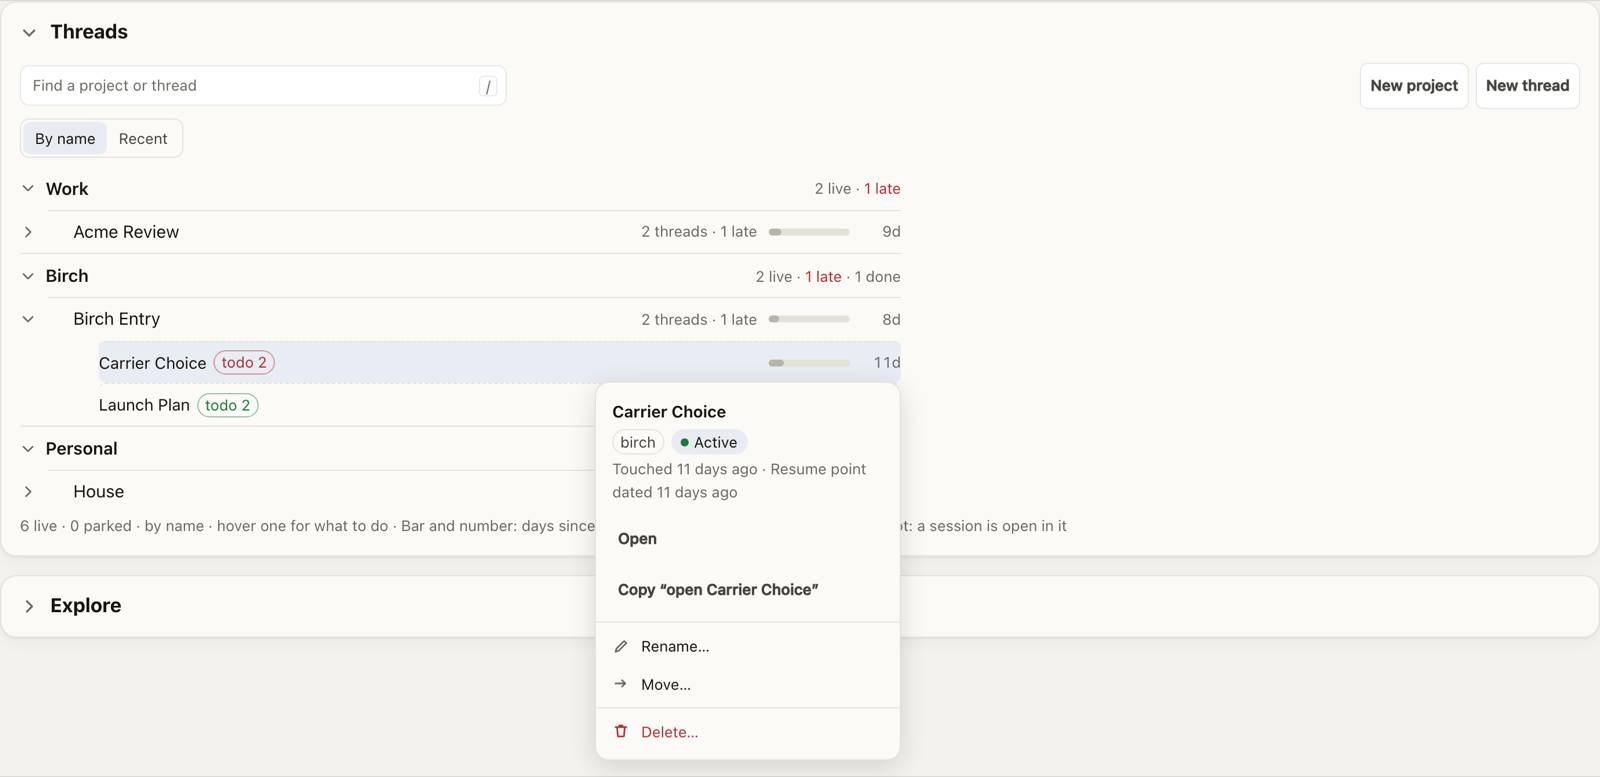
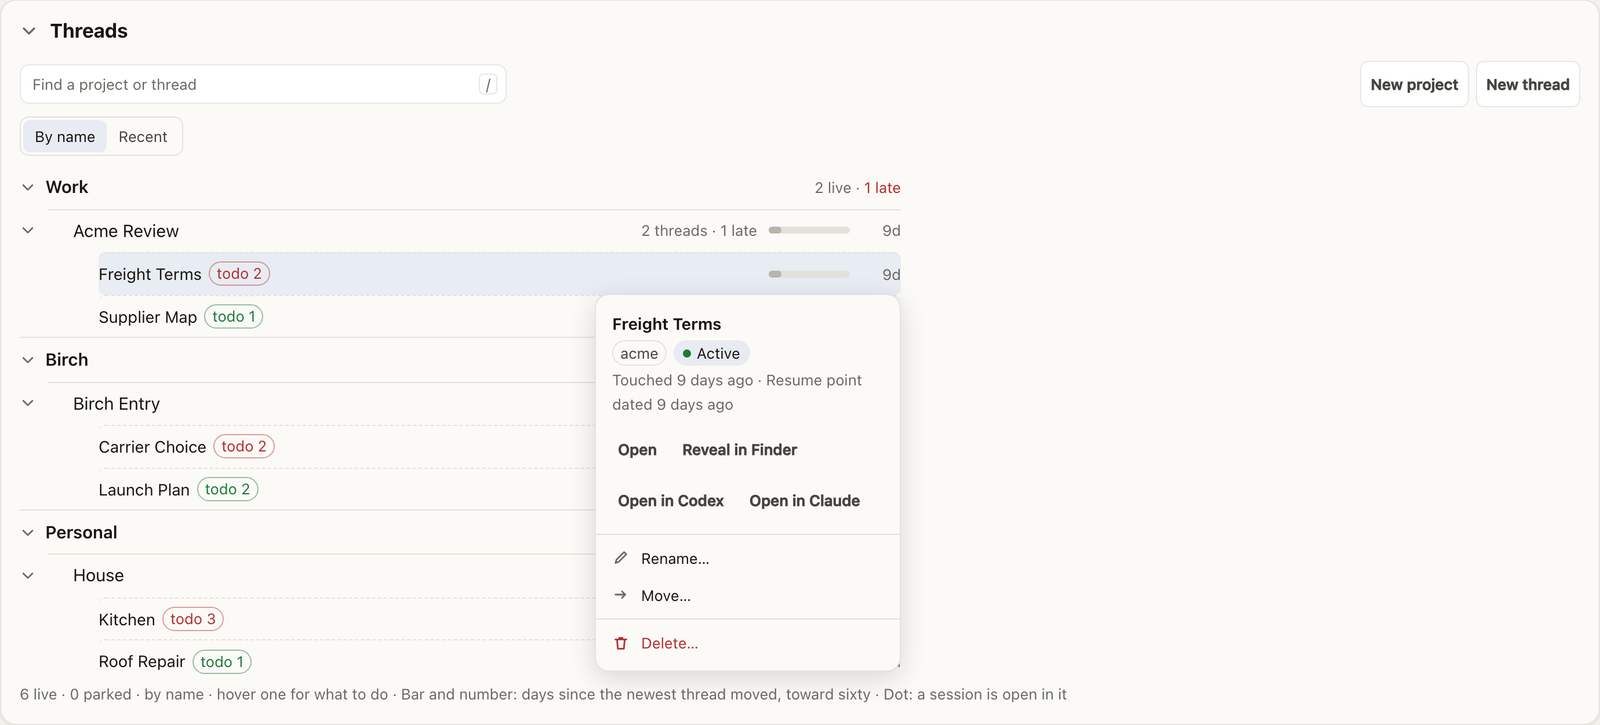
Docs: Overview and Threads pictures as the Mac app draws them
Resume with its menu on each Your work row, the app's row card with Open
in Claude and Open in Codex, and the Threads hint line whole.

diff --git a/docs/extras/status-page.md b/docs/extras/status-page.md
@@ -4,7 +4,7 @@ One page that answers two questions before you open anything: is anything wrong,
 
 A newly installed workspace has this page from the start, put in place and built by the installer. It opens on the full page, with your work listed first on the Overview.
 
-![The Overview on the demo workspace. First, Waiting on you now, headed "Two things need you.": 3 late actions in Work, with Open the list, and 5 items waiting in the inboxes, with Open the Work inbox and Open the Meetings inbox. Below it, Your work: six pieces of work, most recently touched first, each with its next step, its state, Waiting or Late, who it waits on, its todo chip and Copy "Where am I?".](../assets/status-overview.png)
+![The Overview in the Mac app, on the demo workspace. First, Waiting on you now, headed "Two things need you.": 2 late actions in Birch, each with a box to tick and the date it was due, and Open the list; then 5 items waiting in the inboxes, with Process the Inbox for each inbox and Open the Work inbox and Open the Meetings inbox. Below it, Your work: six pieces of work, most recently touched first, each with its next step, its state, Waiting or Late, who it waits on, its todo chip, and Resume with the arrow that opens its menu.](../assets/status-overview.png)
 
 ## What it shows
 
@@ -243,7 +243,7 @@ A preview feature may still change. When one is released it is switched on for e
 
 Hover a thread in the list, or move to it with the keyboard, and a card opens under it. The card is one component on a project row, a thread row, a search result and the graph's panel, 264 pixels wide, and reads top to bottom. The header is the name, then two lines. Line 1 holds what can be changed: the party as a label chip, then the state as a chip you press, *Active* or *Parked*, and, on a project, its layout as a second chip, *One job* or *Separate jobs*. A finished thread shows *Done*, which is not pressable; a thread has no layout chip. Each chip has a hover text and a screen-reader label that name the change (*Park Acme and its thread*, *Split Acme into separate jobs…*), and works with Tab and Enter or Space. The card shows no thread count: the row it opens from has it. Line 2 is muted: when it was touched (*Touched yesterday*, *Finished*), where a thread adds its resume point's age and an open session with its dot. It does not repeat the zone, which is the column it sits in, or the project, which is the row it unfolds from; the graph's panel, which floats free of any list, keeps its kind, zone and project line above them. Straight under the header is *Open in*, then each app's icon, 28 pixels square and 4 apart so five fit on one row of the 264-pixel card, with the default app, the one a click on the name uses, marked by a small accent dot under it, and each icon's tooltip naming its app; in a browser the row keeps words. Then a separator, the changes as plain menu rows with no borders (*New thread here*, *Rename…*, *Move…*, *Close session*, each only where it applies; the state and the layout are the chips, not rows), another separator, and last, in red, *Delete…*. Tab reaches every icon and row in that order. The party's chip is the only bordered label on the card. The rows are:
 
-![The Threads card on the demo workspace: the zones Work, Birch and Personal stacked, each with its counts, and Birch Entry unfolded to its threads Carrier Choice and Launch Plan, each with its todo chip, its bar and its days. The pointer is on Carrier Choice, and its card is open under it: the party chip birch, the state chip Active, when it was touched, Open, Copy "open Carrier Choice", then Rename…, Move… and Delete….](../assets/status-threads.png)
+![The Threads card in the Mac app, on the demo workspace: the zones Work, Birch and Personal stacked, each with its counts, and every project unfolded to its threads, each with its todo chip, its bar and its days. The pointer is on Freight Terms, and its card is open under it: the party chip acme, the state chip Active, when it was touched and when its resume point is dated, then Open, Reveal in Finder, Open in Codex and Open in Claude, then Rename…, Move… and Delete…. The hint line under the list stays in view.](../assets/status-threads.png)
 
 - *Open* opens the thread note. The project's own note opens from the project's row and its card.
 - *Copy "open Pricing"* copies the phrase that resumes the thread, in a browser. In the Mac app where the buttons below open the thread, it is left out; it stays on a card no app is offered for.

diff --git a/CHANGELOG.md b/CHANGELOG.md
@@ -6,7 +6,7 @@ What changed in each release. Dates are when the release was tagged. The format 
 
 ### Changed
 
-- The Garrick App page's pictures are new, taken on 0.76.0 and the demo workspace. The Overview with *Waiting on you now* and *Your work*, the Threads card with a thread's card open, and Explore's graph with a thread selected replace the 0.10.0 pictures, which showed the look before 0.67.0.
+- The Garrick App page's pictures are new, taken on 0.76.0 and the demo workspace. The Overview with *Waiting on you now* and *Your work*, and the Threads card with a thread's card open, both as the Mac app draws them, and Explore's graph with a thread selected replace the 0.10.0 pictures, which showed the look before 0.67.0.
 
 ## [0.76.0] - 2026-11-22
 
